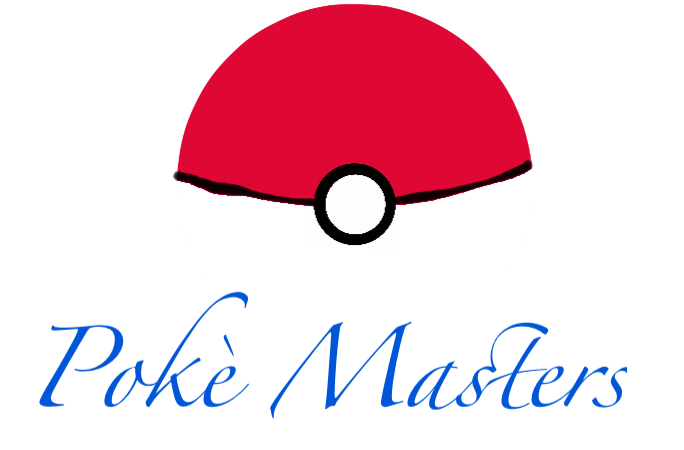
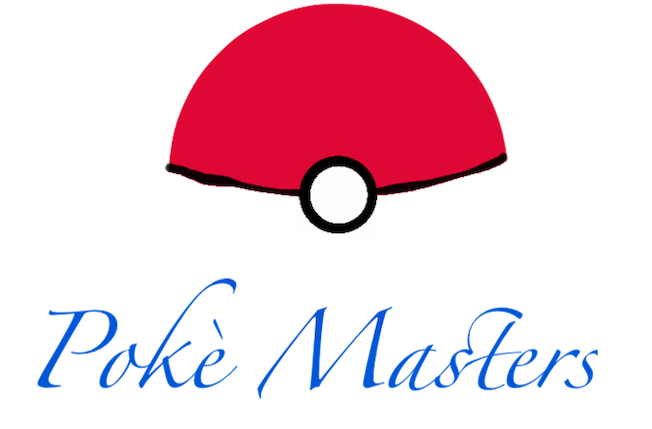
Sign in card finish

diff --git a/bootstrap4Learning/singInPortalBox/index.html b/bootstrap4Learning/singInPortalBox/index.html
@@ -18,7 +18,7 @@
         <div class="container signin-container">
             <div class="row">
                 <div class="col"></div>
-                <div class="col-8">
+                <div class="col-sm-12 col-md-8">
                     <div class="card signin-card">
                         <div class="card-body">
                             <img src="assets/pokeball.png" class="img-fluid signin-img">

diff --git a/bootstrap4Learning/singInPortalBox/style.css b/bootstrap4Learning/singInPortalBox/style.css
@@ -17,7 +17,6 @@ img.signin-img {
     padding: 0rem 2rem 0rem;
     margin: auto;
     display: block;
-    width: 80%;
 }
 
 form.signin-form {
